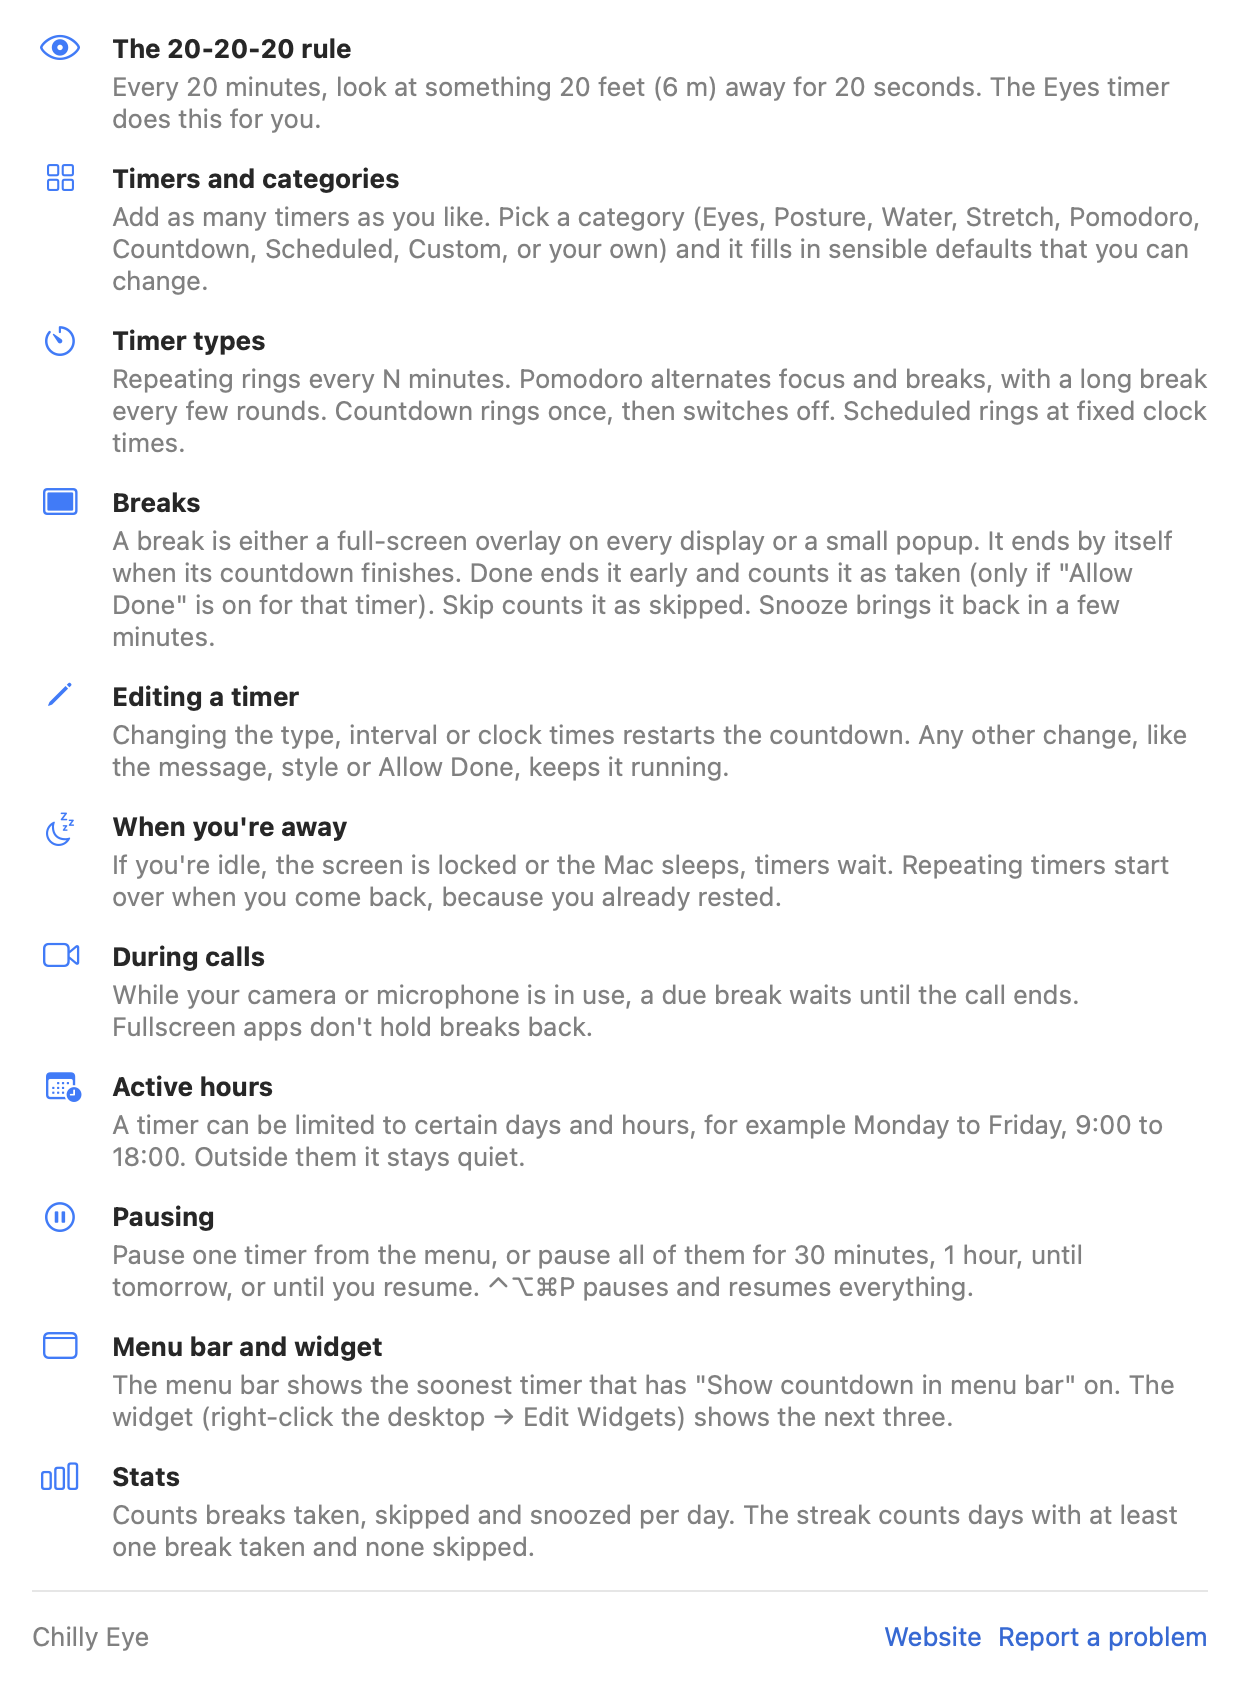
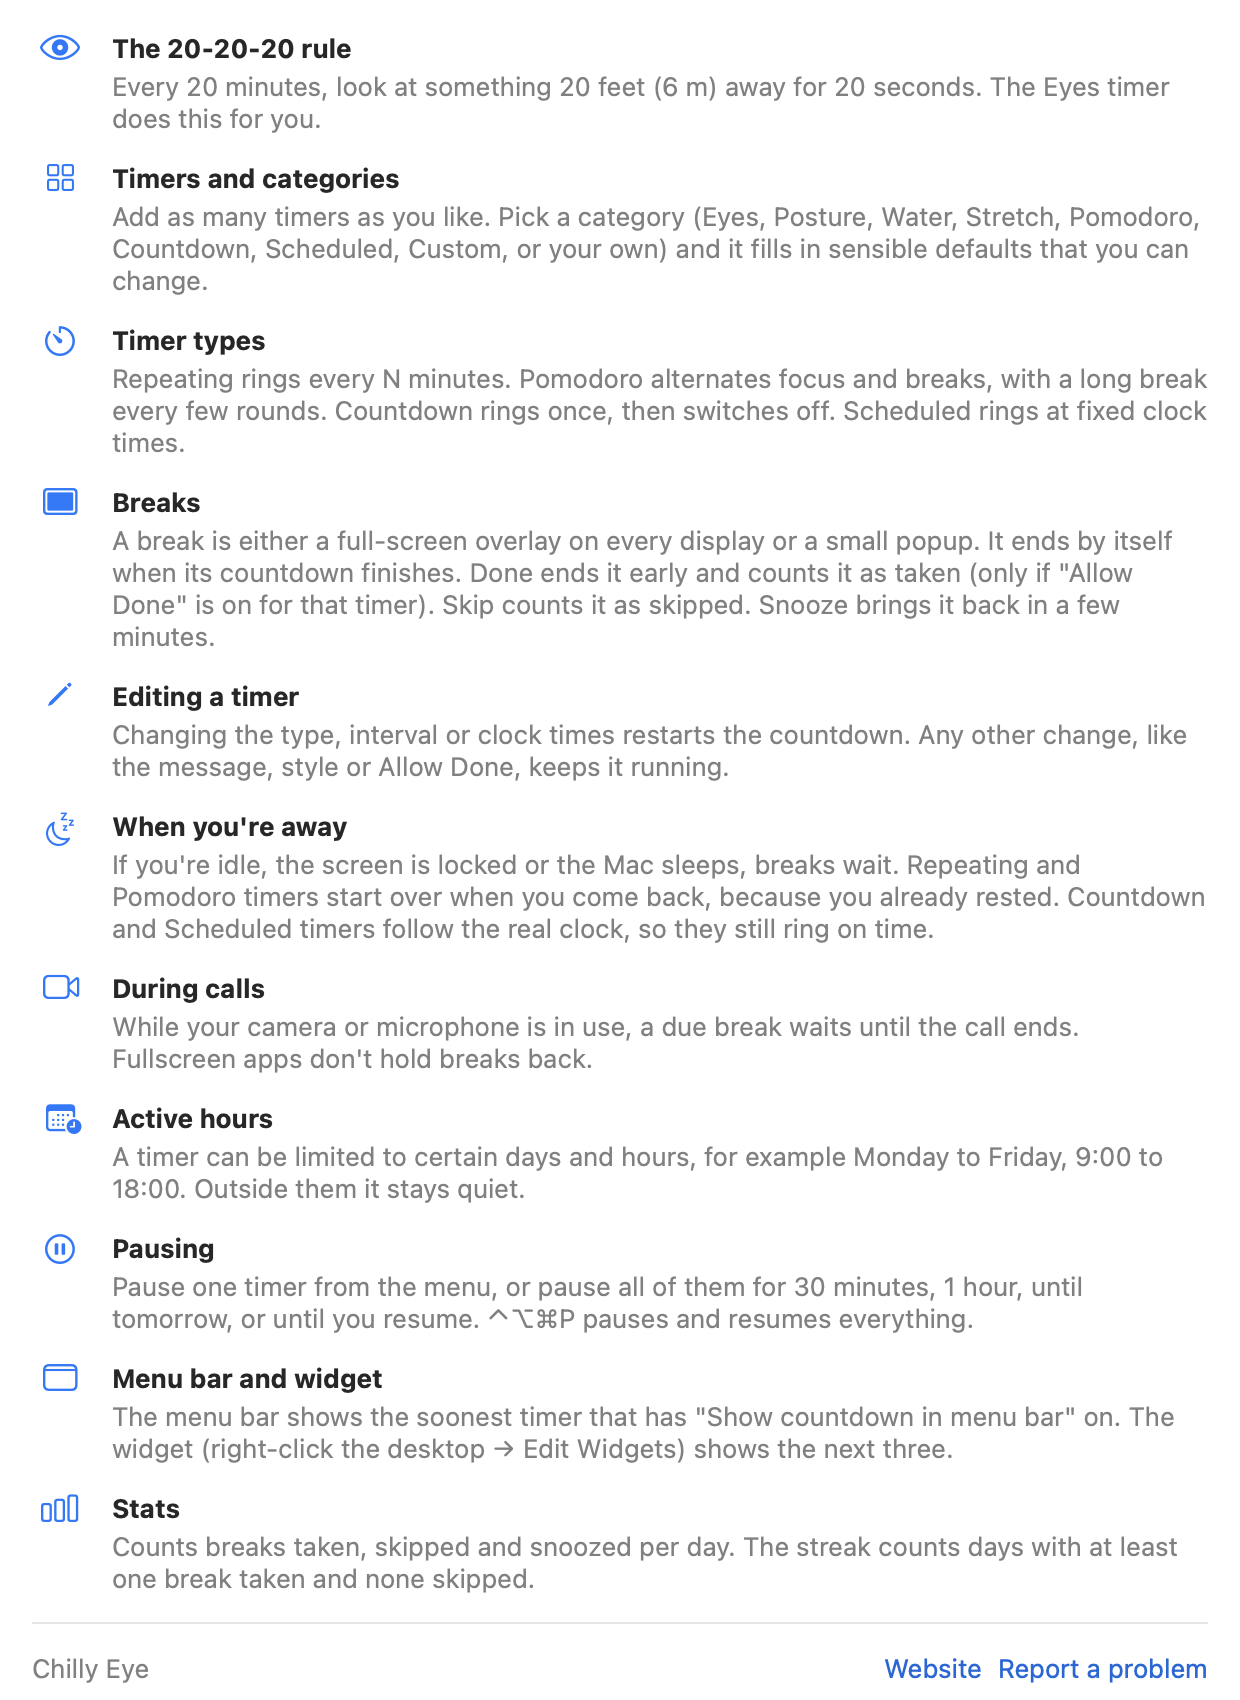
fix: restart pomodoro timers after sleep or idle, like repeating ones

diff --git a/Core/Tests/ChillyCoreTests/ChillyCoreTests.swift b/Core/Tests/ChillyCoreTests/ChillyCoreTests.swift
@@ -78,16 +78,19 @@ final class ChillyCoreTests: XCTestCase {
         XCTAssertFalse(state.isPausedAll)
     }
 
-    func testResetAfterRestOnlyTouchesRepeating() {
+    func testResetAfterRestRestartsRepeatingAndPomodoroOnly() {
         let now = date(2026, 10, 22, 10)
         var state = AppState.makeDefault(now: now)
         var countdown = BreakTimer(category: category(.countdown))
         countdown.restart(now: now)
-        state.timers.append(countdown)
-        let later = now.addingTimeInterval(600)
+        var pomodoro = BreakTimer(category: category(.pomodoro))
+        pomodoro.restart(now: now)
+        state.timers += [countdown, pomodoro]
+        let later = now.addingTimeInterval(8 * 3600) // a night of sleep
         state.resetAfterRest(now: later)
         XCTAssertEqual(state.timers[0].nextFire, later.addingTimeInterval(20 * 60))
         XCTAssertEqual(state.timers[1].nextFire, now.addingTimeInterval(15 * 60))
+        XCTAssertEqual(state.timers[2].nextFire, later.addingTimeInterval(25 * 60))
     }
 
     func testSortedTimersRunningThenPausedThenDisabled() {

diff --git a/App/GuideTab.swift b/App/GuideTab.swift
@@ -21,7 +21,7 @@ struct GuideTab: View {
         Topic(symbol: "pencil", title: "Editing a timer",
               text: "Changing the type, interval or clock times restarts the countdown. Any other change, like the message, style or Allow Done, keeps it running."),
         Topic(symbol: "moon.zzz", title: "When you're away",
-              text: "If you're idle, the screen is locked or the Mac sleeps, timers wait. Repeating timers start over when you come back, because you already rested."),
+              text: "If you're idle, the screen is locked or the Mac sleeps, breaks wait. Repeating and Pomodoro timers start over when you come back, because you already rested. Countdown and Scheduled timers follow the real clock, so they still ring on time."),
         Topic(symbol: "video", title: "During calls",
               text: "While your camera or microphone is in use, a due break waits until the call ends. Fullscreen apps don't hold breaks back."),
         Topic(symbol: "calendar.badge.clock", title: "Active hours",

diff --git a/Core/Sources/ChillyCore/Schedule.swift b/Core/Sources/ChillyCore/Schedule.swift
@@ -123,9 +123,11 @@ public extension AppState {
         pausedUntil = nil
     }
 
-    /// Back from being away: repeating timers restart, since you already rested.
+    /// Back from being away: repeating and pomodoro timers restart, since you already rested.
+    /// Countdown and scheduled timers follow the real clock, so they keep running.
     mutating func resetAfterRest(now: Date) {
-        for i in timers.indices where timers[i].kind == .repeating && timers[i].enabled && !timers[i].isPaused {
+        for i in timers.indices where [.repeating, .pomodoro].contains(timers[i].kind)
+            && timers[i].enabled && !timers[i].isPaused {
             timers[i].scheduleNext(from: now)
         }
     }

diff --git a/README.md b/README.md
@@ -48,7 +48,7 @@
   - **Snooze:** brings it back a few minutes later.
 - **Active hours per timer**, for example Mon–Fri 9:00–18:00.
 - **Smart pausing:**
-  - when you're idle, the screen is locked or the Mac sleeps, timers are held, and repeating timers restart when you return (you already rested)
+  - when you're idle, the screen is locked or the Mac sleeps, breaks wait. Repeating and Pomodoro timers start over when you return (you already rested); Countdown and Scheduled timers follow the real clock
   - breaks wait while you're in a call (camera or mic in use). Fullscreen apps, like an editor, do **not** hold breaks back.
 - **Pause all** for 30 min, 1 h, until tomorrow, or until resumed. Global shortcut **⌃⌥⌘P**.
 - **Stats:** breaks taken / skipped / snoozed per day, and a day streak.
